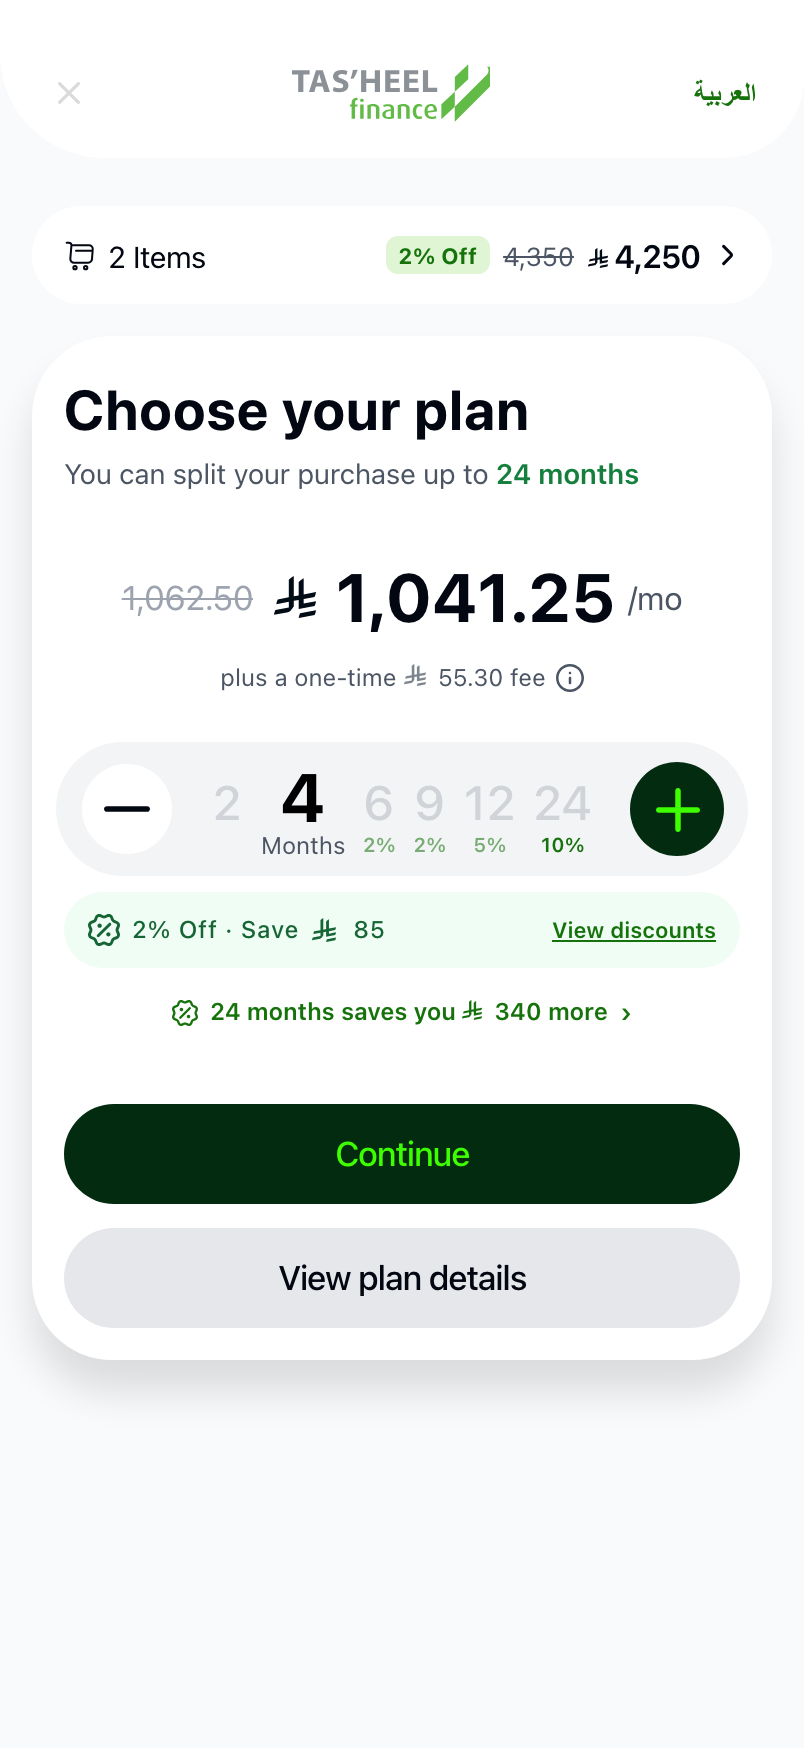
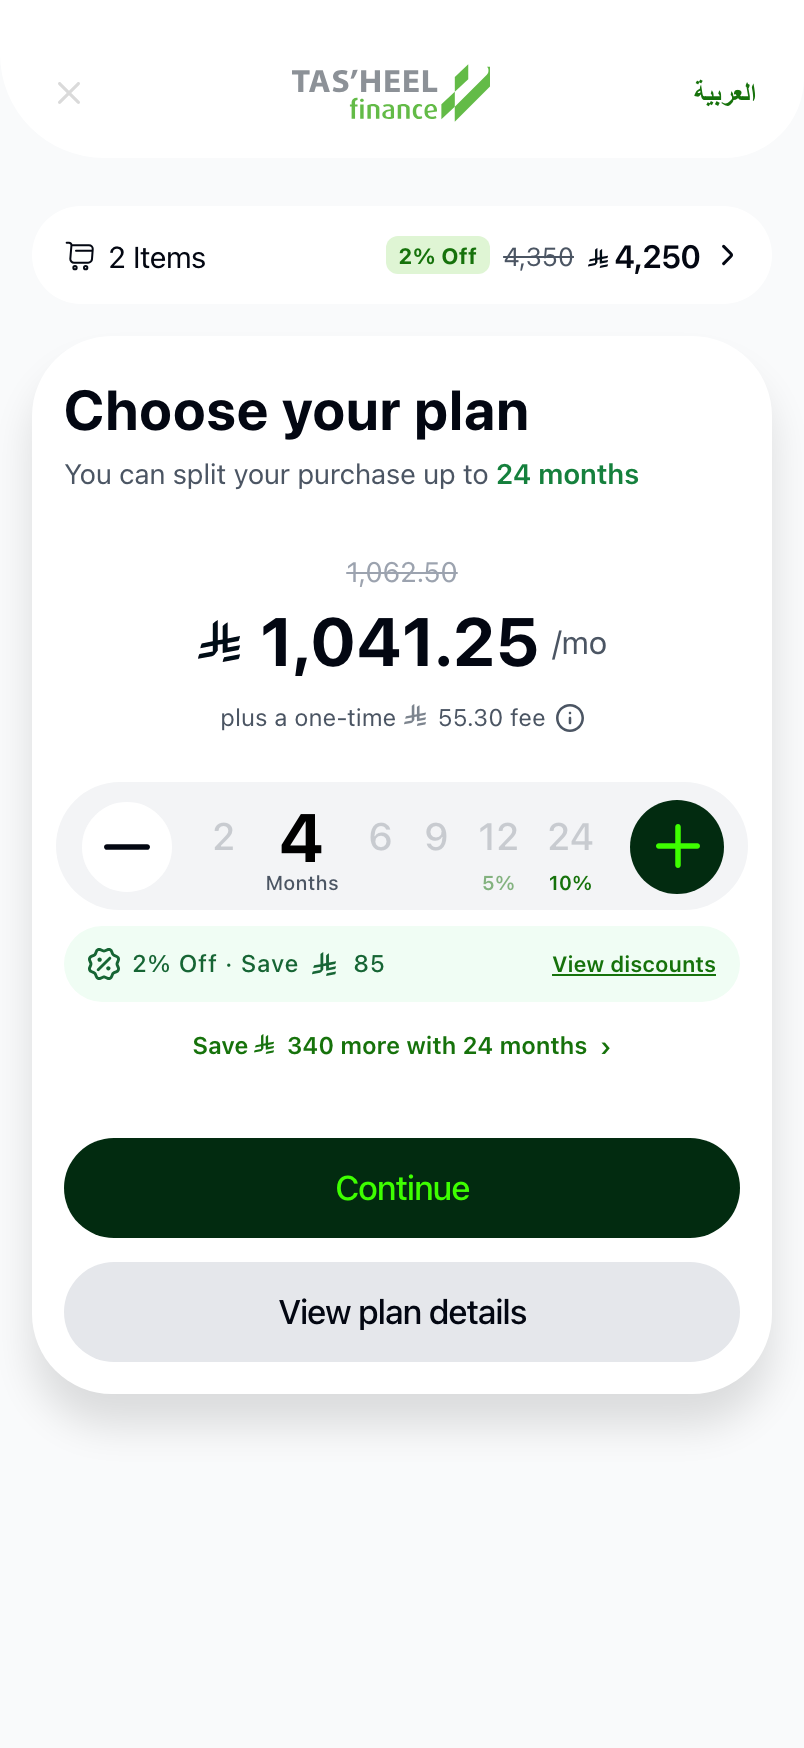
Decompress the stepper: milestone ladder, stacked anchor, quieter nudge
The discount round left the card feeling squeezed: two prices fighting on one
line in the hero, a rate stamped under all six rail numbers ("2% 2% 2%"), the
sale icon twice in a row, and a border on the best-value strip.

- Rail labels only where the tier changes: 4 -> 2%, 12 -> 5%, 24 -> 10%.
- Unselected rail numbers step down to 19px so the selected tenure owns the row;
  all slots share one number-line + label-line baseline grid.
- Anchor price moves above the monthly as a small struck footnote — one number
  owns the hero row.
- Nudge is a plain text link (no repeated icon); best-value strip keeps the chip,
  loses the border.

diff --git a/App.tsx b/App.tsx
@@ -1484,9 +1484,8 @@ function WcBestPlanNudge({ months, onSelect }: { months: number; onSelect: (m: n
       accessibilityLabel={`Switch to ${WC_BEST_TENURE} months, ${Math.round(wcSavingRate(WC_BEST_TENURE) * 100)} percent off, save ${wcMoney(extra)} more`}
       style={({ pressed }) => [styles.wcNudge, pressed && { opacity: 0.75 }]}
     >
-      <SaleTag size={13} color={greenBrand} />
       <Text style={styles.wcNudgeText}>
-        {WC_BEST_TENURE} months saves you <Riyal size={10} color={greenBrand} /> {wcSaving(extra)} more
+        Save <Riyal size={10} color={greenBrand} /> {wcSaving(extra)} more with {WC_BEST_TENURE} months
       </Text>
       <Text style={styles.wcNudgeChevron}>›</Text>
     </Pressable>
@@ -1520,16 +1519,18 @@ function WcTenureRail({ months, onSelect }: { months: number; onSelect: (m: numb
         <Image source={figmaImageSource('wcMinus')} resizeMode="contain" accessibilityIgnoresInvertColors style={{ width: 23, height: 3 }} />
       </Pressable>
       <View style={styles.wcStepperValues}>
-        {WC_TENURES.map((value) => {
+        {WC_TENURES.map((value, index) => {
           const rate = Math.round(wcSavingRate(value) * 100);
+          // Label only where the tier changes (2% → 5% → 10%): the ladder stays
+          // legible without stamping the same rate under three neighbours.
+          const prevRate = index > 0 ? Math.round(wcSavingRate(WC_TENURES[index - 1]) * 100) : 0;
+          const pct = rate > 0 && rate !== prevRate ? `${rate}%` : ' ';
           return value === months ? (
             <View key={value} style={styles.wcStepperActiveSlot}>
               <Animated.Text testID="wc-plan-months" style={[styles.wcStepperMain, { transform: [{ scale }] }]}>{value}</Animated.Text>
               <Text style={styles.wcStepperMonthsLabel}>Months</Text>
             </View>
           ) : (
-            // Ladder always in view: every tenure wears its discount, so "longer
-            // = bigger discount" is legible before any interaction.
             <Pressable
               key={value}
               onPress={() => onSelect(value)}
@@ -1539,9 +1540,7 @@ function WcTenureRail({ months, onSelect }: { months: number; onSelect: (m: numb
               style={styles.wcStepperSlot}
             >
               <Text style={styles.wcStepperSide}>{value}</Text>
-              <Text style={[styles.wcStepperPct, value === WC_BEST_TENURE && styles.wcStepperPctBest]}>
-                {rate > 0 ? `${rate}%` : ' '}
-              </Text>
+              <Text style={[styles.wcStepperPct, value === WC_BEST_TENURE && styles.wcStepperPctBest]}>{pct}</Text>
             </Pressable>
           );
         })}
@@ -1588,10 +1587,12 @@ function WcTenure({ setRoute, months, setMonths }: { setRoute: (r: RouteKey) => 
               <View style={{ gap: 24, width: '100%', alignItems: 'center' }}>
                 <FadeSwap swapKey={`plan-${months}`}>
                   <View style={styles.wcPlanHero}>
+                    {/* Anchor sits above the price, not beside it — one number owns
+                        the row, the old price reads as a quiet footnote. */}
+                    {wcPlanSaving(months) > 0 ? (
+                      <Text style={styles.wcPlanHeroWas}>{wcMoney(wcPlanBaseMonthly(months))}</Text>
+                    ) : null}
                     <View style={styles.wcPlanHeroRow}>
-                      {wcPlanSaving(months) > 0 ? (
-                        <Text style={styles.wcPlanHeroWas}>{wcMoney(wcPlanBaseMonthly(months))}</Text>
-                      ) : null}
                       <Riyal size={21} />
                       <Text style={styles.wcPlanHeroAmount}>{wcMoney(wcPlanMonthly(months))}</Text>
                       <Text style={styles.wcPlanHeroPer}>/mo</Text>
@@ -4560,16 +4561,18 @@ const styles = StyleSheet.create({
   wcStepperTrack: { alignSelf: 'stretch', marginHorizontal: -4, borderRadius: 999, backgroundColor: '#f3f4f6', paddingHorizontal: 12, paddingVertical: 7, flexDirection: 'row', alignItems: 'center', justifyContent: 'space-between' },
   wcStepperMinus: { width: 47, height: 47, borderRadius: 99, backgroundColor: '#fff', borderWidth: 1, borderColor: borderSubtle, alignItems: 'center', justifyContent: 'center' },
   wcStepperPlus: { width: 47, height: 47, borderRadius: 99, backgroundColor: green, alignItems: 'center', justifyContent: 'center' },
-  wcStepperValues: { flex: 1, flexDirection: 'row', alignItems: 'center', justifyContent: 'space-evenly', paddingHorizontal: 10 },
-  wcStepperActiveSlot: { alignItems: 'center', gap: 2 },
+  wcStepperValues: { flex: 1, flexDirection: 'row', alignItems: 'center', justifyContent: 'space-evenly', paddingHorizontal: 4 },
+  // Every slot shares one anatomy: a 41px number line over a 13px label line, so
+  // the whole rail sits on a single baseline grid regardless of selection.
+  wcStepperActiveSlot: { alignItems: 'center' },
   wcStepperSlot: { alignItems: 'center' },
-  wcStepperSide: { fontSize: 24, lineHeight: 41, fontWeight: '500', color: muted, opacity: 0.2, letterSpacing: 0.38, textAlign: 'center', minWidth: 16 },
+  wcStepperSide: { fontSize: 19, lineHeight: 41, fontWeight: '500', color: muted, opacity: 0.25, letterSpacing: 0.38, textAlign: 'center', minWidth: 14 },
   // Discount ladder riding the rail — the rate each tenure unlocks, always visible.
-  wcStepperPct: { fontSize: 10, lineHeight: 12, fontWeight: '600', color: greenBrand, opacity: 0.55, marginTop: -6 },
+  wcStepperPct: { fontSize: 10, lineHeight: 13, fontWeight: '600', color: greenBrand, opacity: 0.5, marginTop: -4, textAlign: 'center' },
   wcStepperPctBest: { opacity: 1 },
   wcStepperMain: { fontSize: 34, lineHeight: 41, fontWeight: '700', color: '#000', letterSpacing: 0.38, textAlign: 'center' },
-  wcStepperMonthsLabel: { fontSize: 12, lineHeight: 16, color: muted, marginTop: -6 },
-  wcPlanHero: { alignItems: 'center', gap: 12 },
+  wcStepperMonthsLabel: { fontSize: 10, lineHeight: 13, fontWeight: '500', color: muted, marginTop: -4, textAlign: 'center' },
+  wcPlanHero: { alignItems: 'center', gap: 10 },
   wcPlanHeroRow: { flexDirection: 'row', alignItems: 'center', gap: 6 },
   wcPlanHeroAmount: { fontSize: 34, lineHeight: 41, fontWeight: '700', color: text, letterSpacing: 0.38 },
   wcPlanHeroToday: { fontSize: 16, lineHeight: 22, color: muted },
@@ -4579,7 +4582,7 @@ const styles = StyleSheet.create({
   wcPlanFeesRow: { flexDirection: 'row', alignItems: 'center', justifyContent: 'center', gap: 5 },
   // Figma 3529:83365 — saving strip
   wcSavingStrip: { alignSelf: 'stretch', backgroundColor: '#f0fdf4', borderRadius: 999, paddingHorizontal: 12, paddingVertical: 10, flexDirection: 'row', alignItems: 'center', justifyContent: 'space-between' },
-  wcSavingStripBest: { borderWidth: 1, borderColor: 'rgba(22,101,52,0.35)', paddingVertical: 9 },
+  wcSavingStripBest: {},
   wcSavingLeft: { flexDirection: 'row', alignItems: 'center', gap: 6 },
   wcSavingText: { fontSize: 12, lineHeight: 16, fontWeight: '500', color: greenMid, letterSpacing: 0.38 },
   wcBestChip: { backgroundColor: greenMid, borderRadius: 999, paddingHorizontal: 8, paddingVertical: 3 },
@@ -4587,7 +4590,7 @@ const styles = StyleSheet.create({
   wcNudge: { flexDirection: 'row', alignItems: 'center', gap: 6, paddingHorizontal: 12, paddingVertical: 6 },
   wcNudgeText: { fontSize: 12, lineHeight: 16, fontWeight: '600', color: greenBrand, letterSpacing: -0.08 },
   wcNudgeChevron: { fontSize: 14, lineHeight: 16, fontWeight: '600', color: greenBrand, marginTop: -1 },
-  wcPlanHeroWas: { fontSize: 17, lineHeight: 22, color: '#9ca3af', textDecorationLine: 'line-through', marginRight: 4 },
+  wcPlanHeroWas: { fontSize: 14, lineHeight: 16, color: '#9ca3af', textDecorationLine: 'line-through', marginBottom: -4 },
   wcSavingLink: { fontSize: 11, lineHeight: 18, fontWeight: '600', color: greenBrand, letterSpacing: -0.08, textDecorationLine: 'underline' },
   wcCtaDisabled: { backgroundColor: '#e5e7eb' },
   wcCtaDisabledText: { color: '#9ca3af' },
